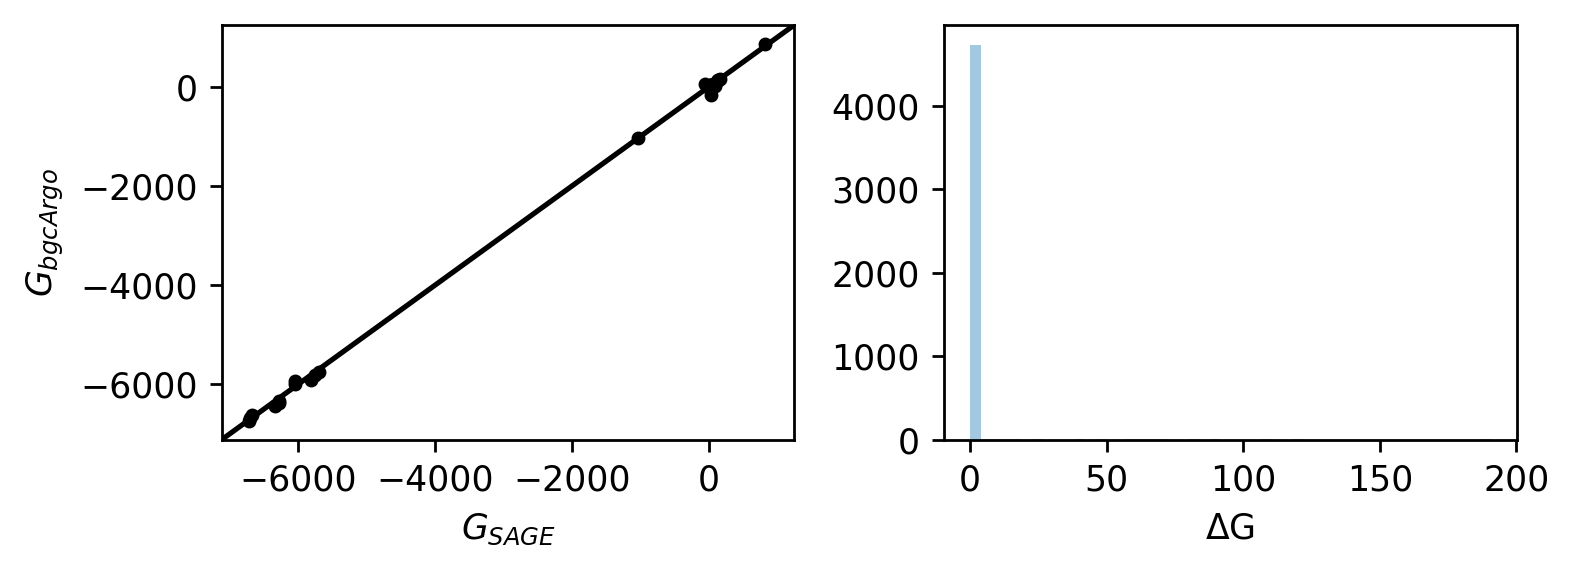
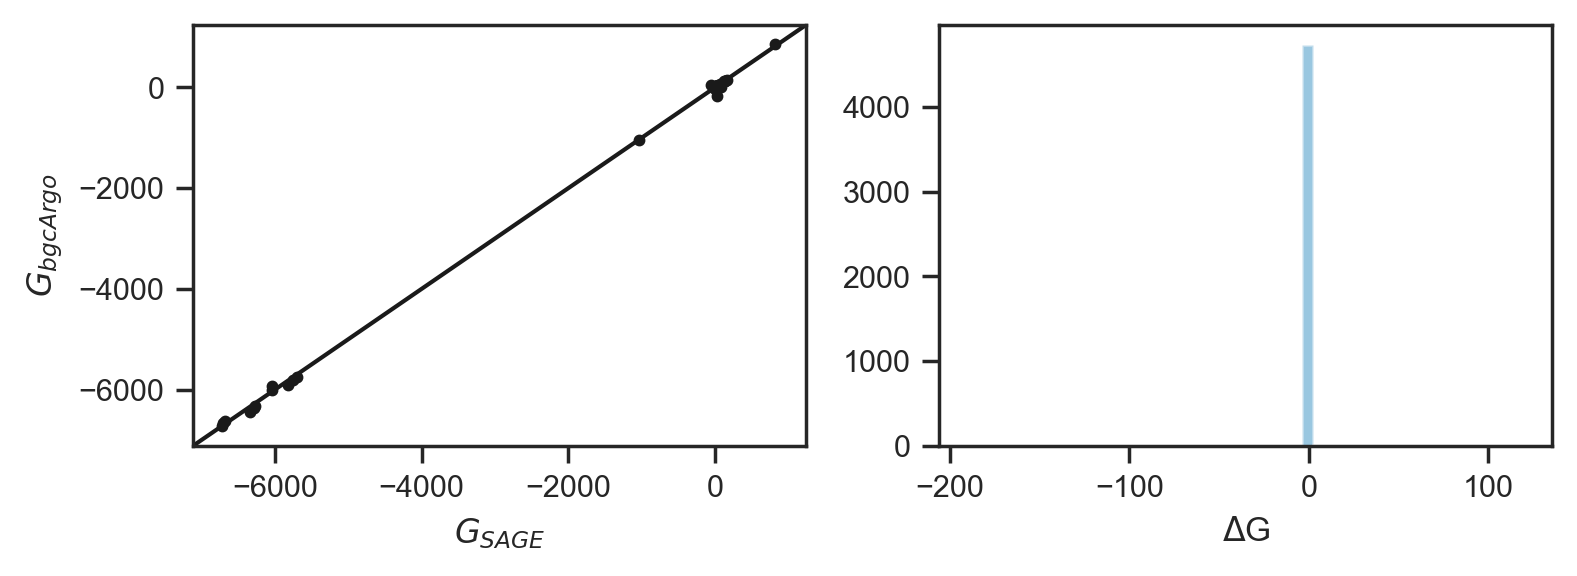
centre bins on 0

diff --git a/validation/high_level_doxy_audit_figs.py b/validation/high_level_doxy_audit_figs.py
@@ -13,7 +13,7 @@ import seaborn as sns
 # summary comparison between bgcArgo and SAGE/DOXY audit
 fn = Path('../data/doxy_audit_vs_bgcArgo_py_comparison_20200730.csv')
 df = pd.read_csv(fn)
-df['diffGAIN'] = np.abs(df.pyGAIN - df.sageGAIN)
+df['diffGAIN'] = df.pyGAIN - df.sageGAIN
 
 # make new dataframe with categories depending on absolute deviation
 counts = pd.DataFrame(dict(N=np.array([df.shape[0],df[df.diffGAIN < 0.01].shape[0],
@@ -70,7 +70,9 @@ axes[0].set_ylim((ll,ul))
 axes[0].set_xlabel('$G_{SAGE}$')
 axes[0].set_ylabel('$G_{bgcArgo}$')
 
-xf = df[df.diffGAIN < 1e9]
+xf = df[df.diffGAIN.notnull()]
+xf = xf[~np.isinf(xf.diffGAIN)]
+
 sns.distplot(xf.diffGAIN, kde=False, ax=axes[1])
 
 axes[1].set_xlabel('$\Delta$G')
@@ -91,8 +93,7 @@ axes[0].set_ylim((ll,ul))
 axes[0].set_xlabel('$G_{SAGE}$')
 axes[0].set_ylabel('$G_{bgcArgo}$')
 
-xf = df[df.diffGAIN < 1e9]
-sns.distplot(xf.diffGAIN, kde=False, ax=axes[1], bins=np.arange(0, 0.5, 0.01))
+sns.distplot(xf.diffGAIN, kde=False, ax=axes[1], bins=np.arange(-0.505, 0.505, 0.01))
 
 axes[1].set_xlabel('$\Delta$G')
 
@@ -111,8 +112,7 @@ axes[0].set_ylim((ll,ul))
 axes[0].set_xlabel('$G_{SAGE}$')
 axes[0].set_ylabel('$G_{bgcArgo}$')
 
-xf = df[df.diffGAIN < 1e9]
-sns.distplot(xf.diffGAIN, kde=False, ax=axes[1], bins=np.arange(0, 0.2, 0.01))
+sns.distplot(xf.diffGAIN, kde=False, ax=axes[1], bins=np.arange(-0.205, 0.205, 0.01))
 
 axes[1].set_xlabel('$\Delta$G')
 
